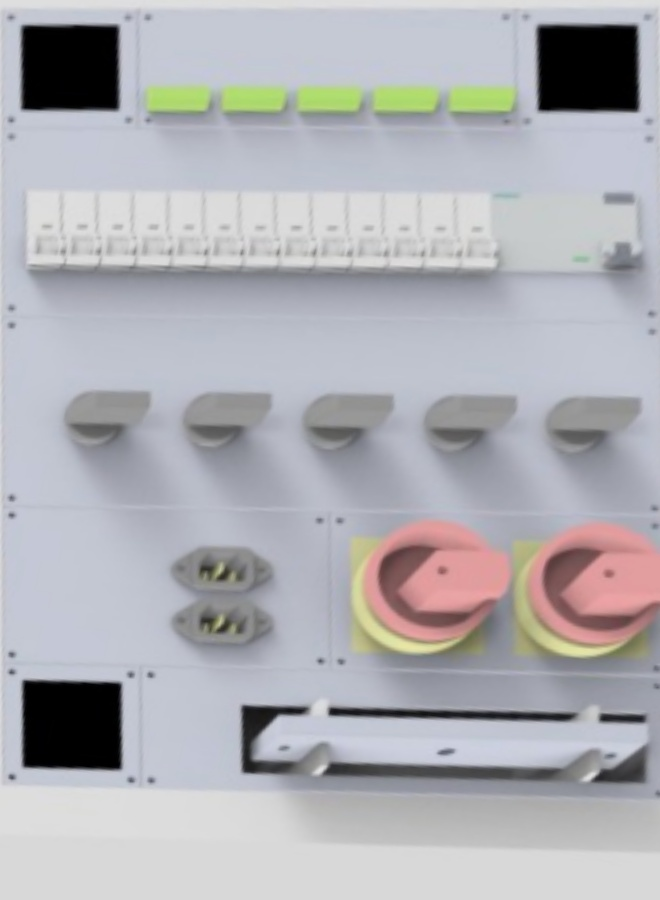
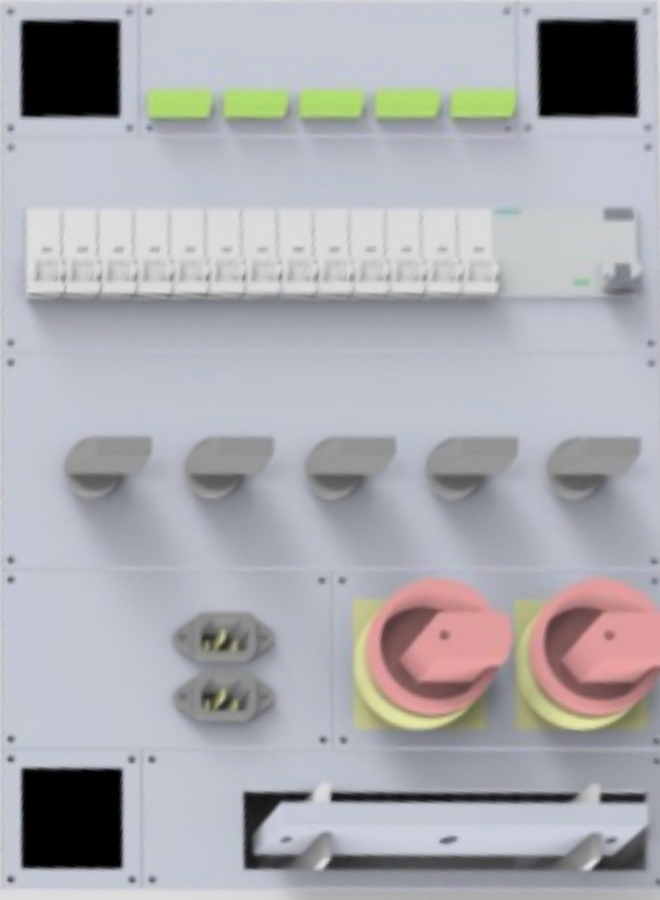
actualizacion del panel

diff --git a/src/config.py b/src/config.py
@@ -38,12 +38,14 @@ MAX_BORDER_TOUCHES = 2
 ANCHOR_TAG_LAYOUT = {
     "top_left": (0.03, 0.025, 0.155, 0.10),
     "top_right": (0.815, 0.025, 0.155, 0.10),
-    "bottom_left": (0.03, 0.755, 0.155, 0.10),
+    # Ajuste empirico: acerca el borde inferior proyectado al panel real
+    # cuando se usa la ancla inferior izquierda como referencia.
+    "bottom_left": (0.03, 0.86, 0.155, 0.10),
 }
 
 ANCHOR_THRESHOLD = 45
 ANCHOR_MIN_AREA = 200
-ANCHOR_MIN_FILL = 0.60
+ANCHOR_MIN_FILL = 0.50
 ANCHOR_MIN_ASPECT = 0.70
 
 # Cuando esta activado, el pipeline guarda mascaras y resultados
